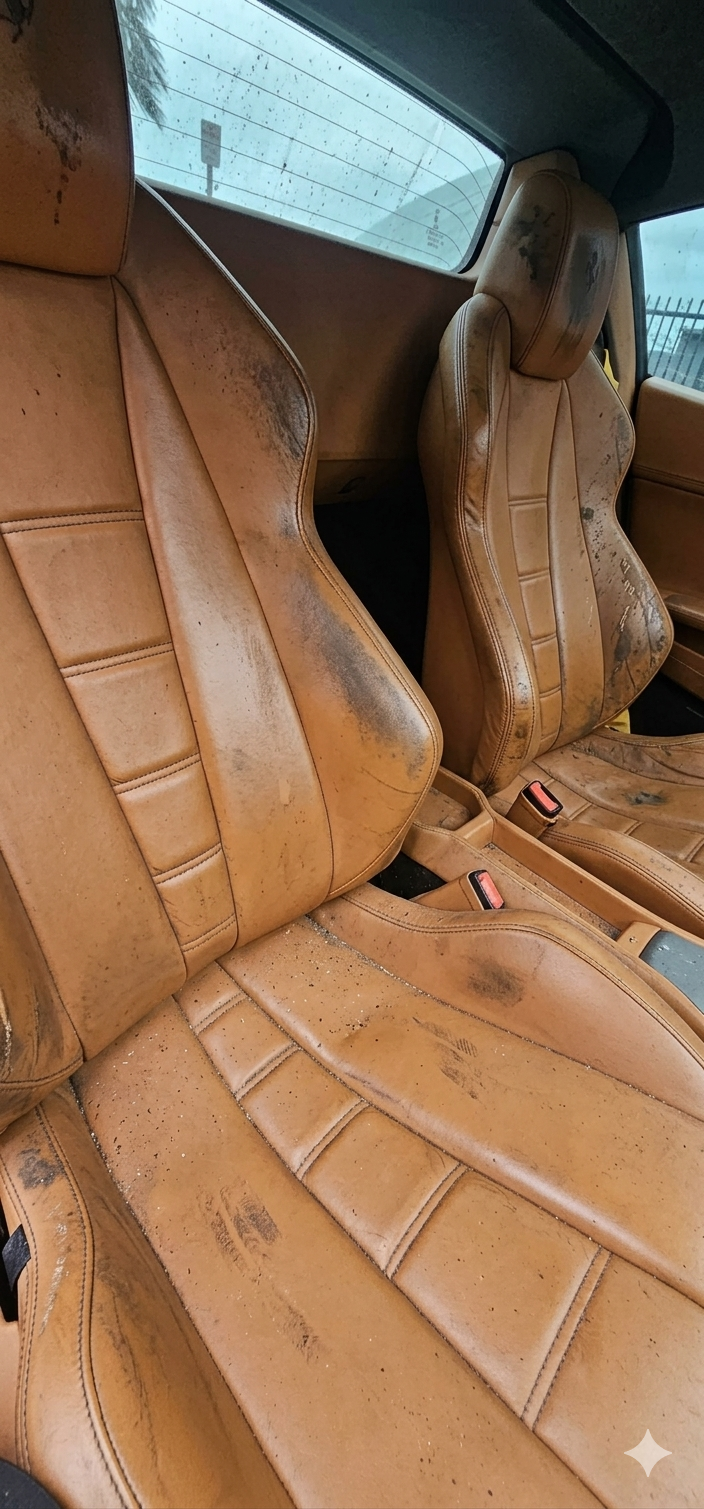
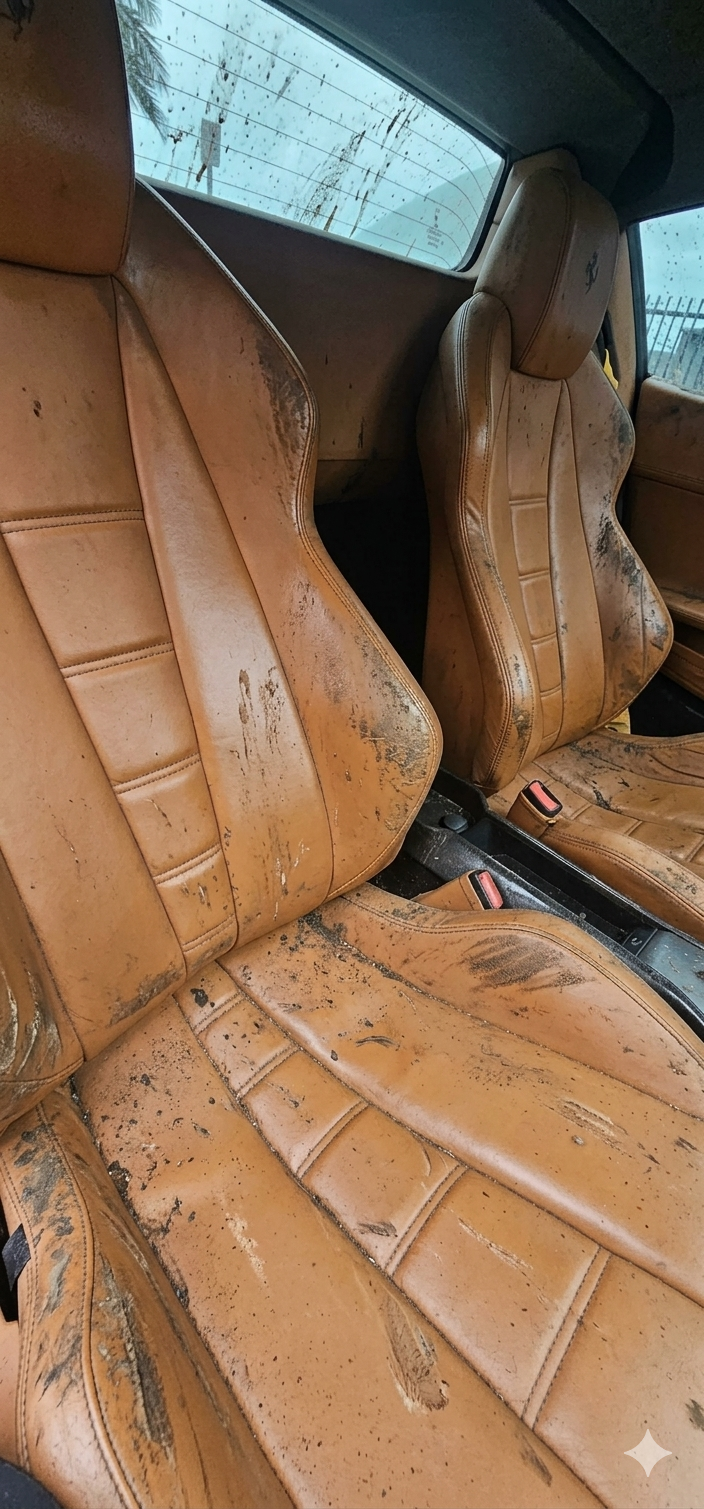
update commit

diff --git a/src/components/HorizontalScrollPanel.jsx b/src/components/HorizontalScrollPanel.jsx
@@ -35,10 +35,10 @@ function HorizontalScrollPanel() {
 
   <div className='lg:w-[100vw] p-5 h-screen  flex gap-[2.8em] items-center justify-center text7xl text-black'>
           <div className='flex-1 flex  justify-between flex-col h-full '>
-            <Content color='#D23723' src={'/images/porscheClean.png'} text={'Qatar, 2024'} className=''/>
+            <Content color='#D23723' src={'/images/porscheClean.png'} text={'Porsche, 2024'} className=''/>
             <div className='flex w-full items-end  self-end justify-end'>
 
-            <Content src={'/images/porscheClean.png'}  text={'New york, 2008'} className='flelex-col'/>
+            <Content src={'/images/rangeRoverWash.jpg'}  text={'Range R0ver, 2025'} className='flelex-col'/>
             </div>
           </div>
           <div className='flex-1 flex flex-col justify-end h-full '>
